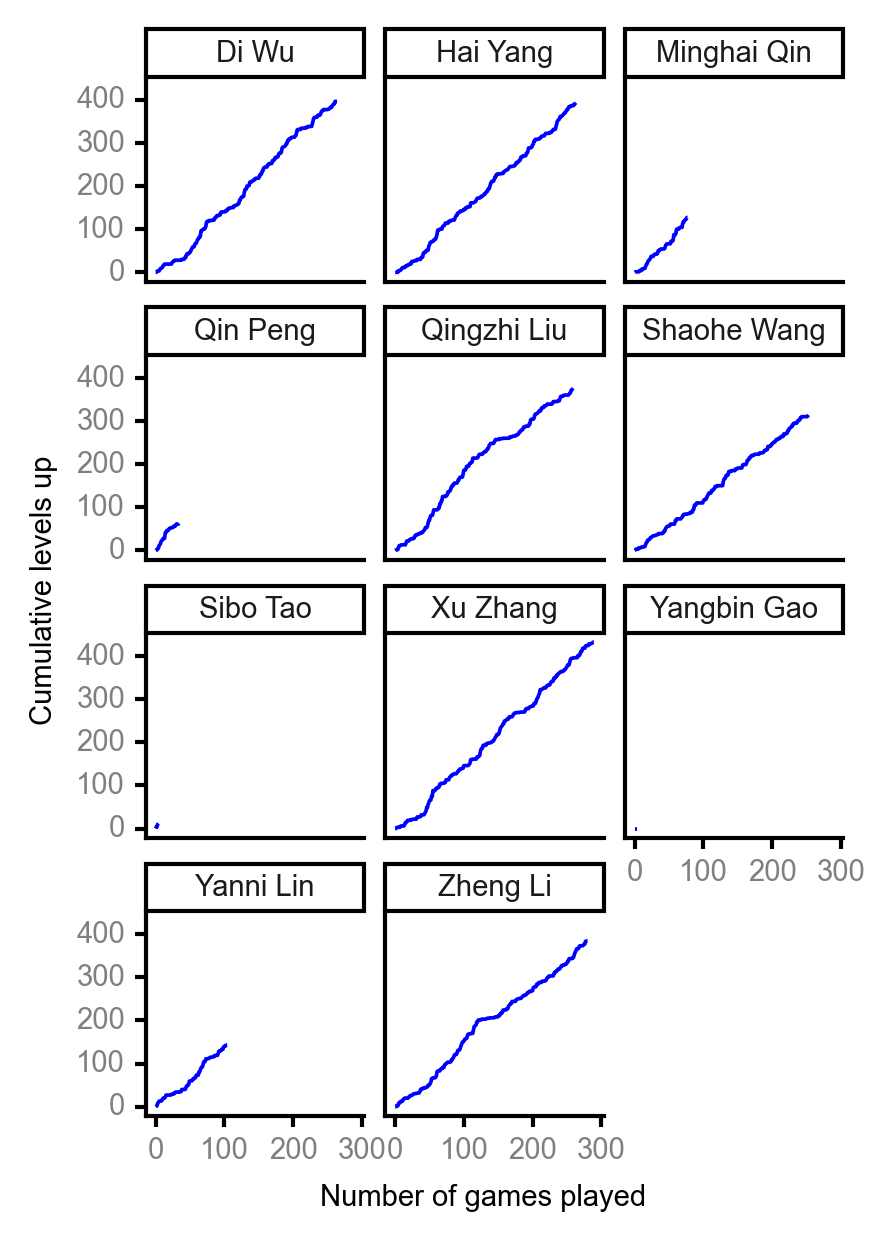
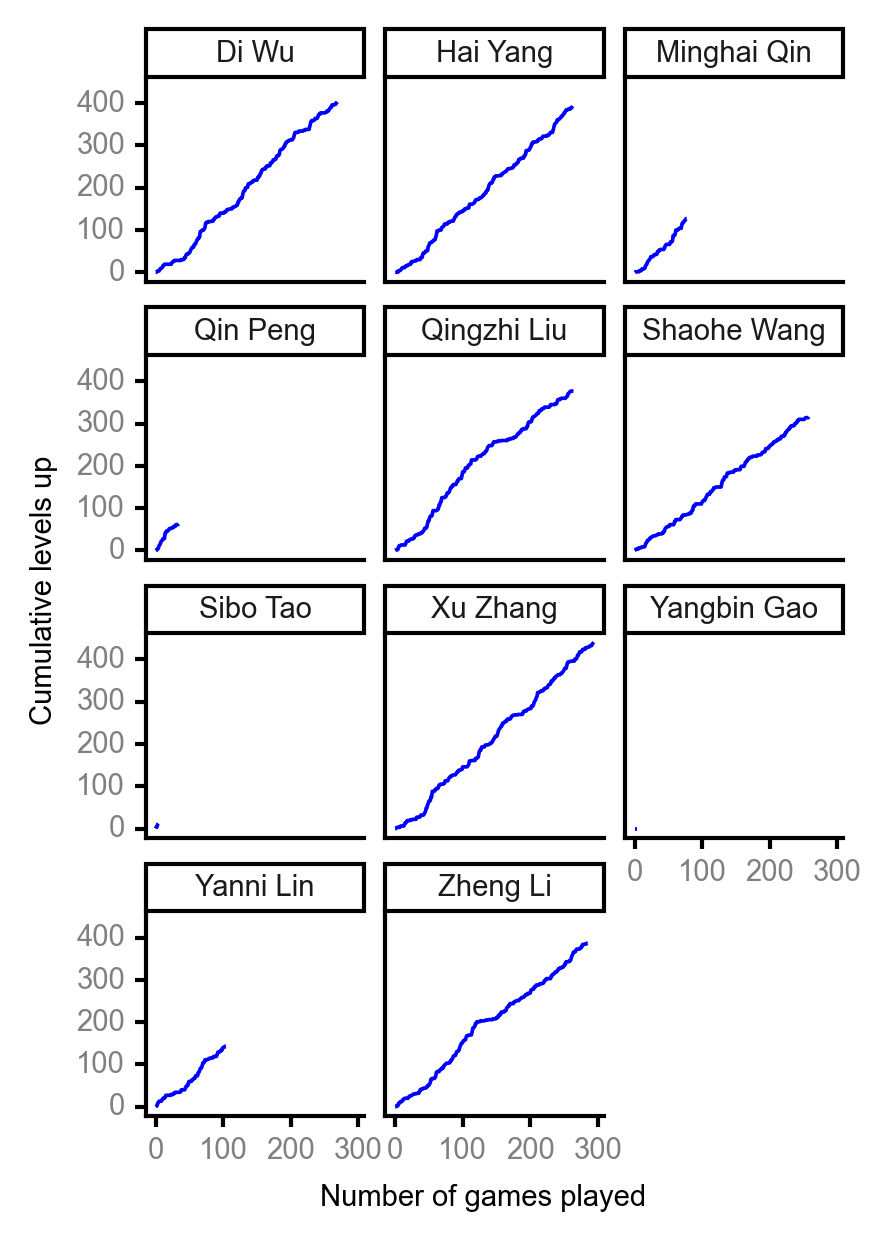
update player stats

diff --git a/player_stats.md b/player_stats.md
@@ -3,7 +3,7 @@ layout: player_stats
 title: Player Statistics
 author: Shaohe Wang
 author_url: https://scholar.google.com/citations?user=R_-kJV4AAAAJ&hl=en
-date: 2021-06-05
+date: 2021-06-12
 ---
 
 #### [Spreadsheet](https://docs.google.com/spreadsheets/d/1So3PBr9gV3I0LzApZOgJlQew2QjM1wAiWhR50rAnHRg/edit#gid=2137801449)
@@ -14,12 +14,12 @@ date: 2021-06-05
 
 | <br><br><br>Rank | <br><br><br>Player | <br> Lifetime <br> levels <br> up | <br><br> Winning <br> rate | <br> Average <br> levels <br> up | <br> Total <br> games <br> played | Games <br> played <br> as <br> MVP | Games <br> played <br> as <br> dealer | N_games <br> short <br> staffed <br> as dealer | Winning <br> rate <br> as <br> dealer |
 |:---:|:---:|:---:|:---:|:---:|:---:|:---:|:---:|:---:|:---:|
-| 1 | Xu <br> Zhang | 433 | 54.1% | 2.76 | 290 | 19 | 56 | 2 | 46.4% |
-| 2 | Di <br> Wu | 397 | 48.7% | 3.08 | 265 | 31 | 44 | 0 | 47.7% |
+| 1 | Xu <br> Zhang | 441 | 54.6% | 2.74 | 295 | 19 | 57 | 2 | 47.4% |
+| 2 | Di <br> Wu | 406 | 49.3% | 3.05 | 270 | 33 | 46 | 0 | 50.0% |
 | 3 | Hai <br> Yang | 393 | 51.9% | 2.87 | 264 | 24 | 49 | 1 | 53.1% |
-| 4 | Zheng <br> Li | 385 | 53.7% | 2.55 | 281 | 13 | 44 | 1 | 59.1% |
-| 5 | Qingzhi <br> Liu | 377 | 50.8% | 2.86 | 260 | 14 | 46 | 4 | 47.8% |
-| 6 | Shaohe <br> Wang | 314 | 44.5% | 2.78 | 254 | 13 | 39 | 2 | 43.6% |
+| 4 | Zheng <br> Li | 390 | 53.5% | 2.55 | 286 | 14 | 45 | 1 | 57.8% |
+| 5 | Qingzhi <br> Liu | 377 | 49.8% | 2.86 | 265 | 14 | 47 | 4 | 46.8% |
+| 6 | Shaohe <br> Wang | 316 | 44.4% | 2.75 | 259 | 14 | 39 | 2 | 43.6% |
 | 7 | Yanni <br> Lin | 144 | 47.6% | 2.88 | 105 | 10 | 11 | 2 | 36.4% |
 | 8 | Minghai <br> Qin | 127 | 52.6% | 3.10 | 78 | 1 | 11 | 1 | 72.7% |
 | 9 | Qin <br> Peng | 63 | 60.0% | 3.00 | 35 | 4 | 3 | 0 | 66.7% |
